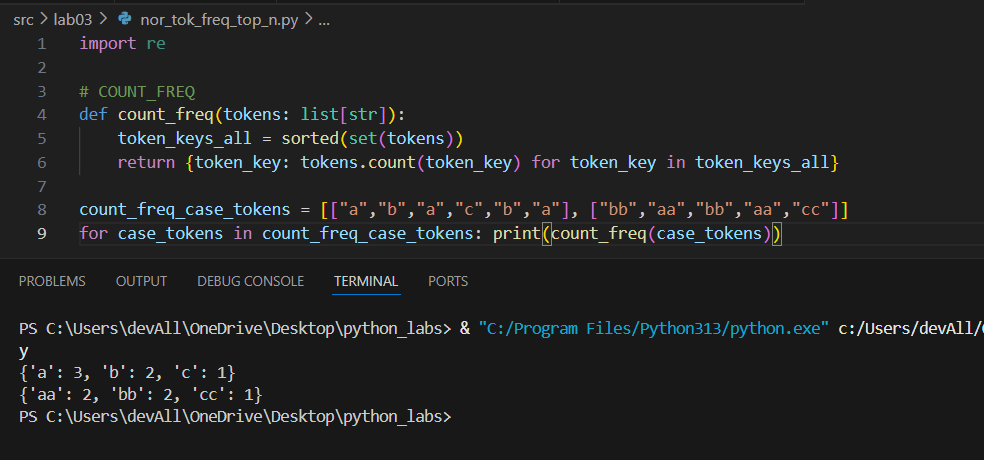
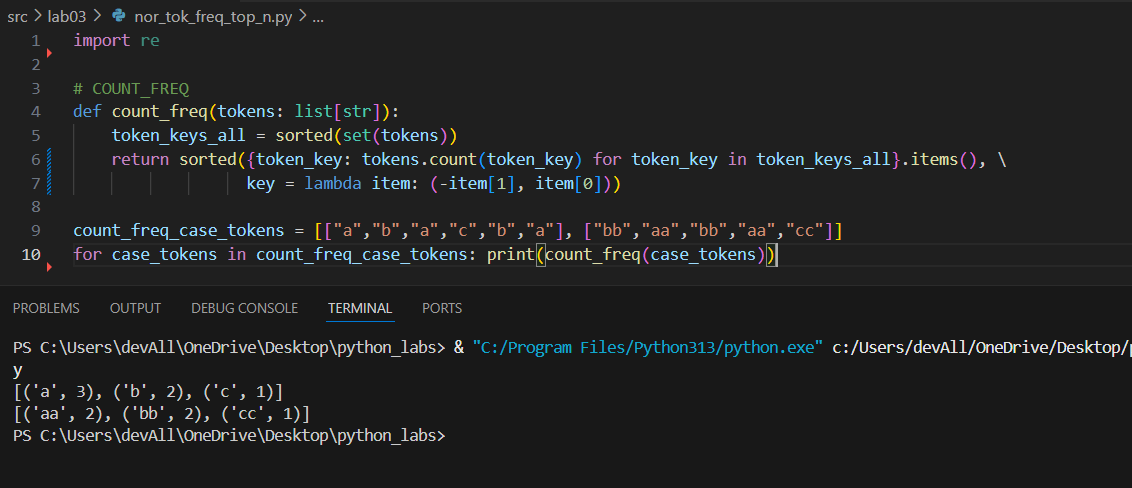
Commit 4.1

diff --git a/src/lab03/nor_tok_freq_top_n.py b/src/lab03/nor_tok_freq_top_n.py
@@ -22,14 +22,15 @@ print('-' * 20)
 # COUNT_FREQ
 def count_freq(tokens: list[str]):
     token_keys_all = sorted(set(tokens))
-    return {token_key: tokens.count(token_key) for token_key in token_keys_all}
+    return sorted({token_key: tokens.count(token_key) for token_key in token_keys_all}.items(), \
+                  key = lambda item: (-item[1], item[0]))
 
 count_freq_case_tokens = [["a","b","a","c","b","a"], ["bb","aa","bb","aa","cc"]]
 for case_tokens in count_freq_case_tokens: print(count_freq(case_tokens))
 print('-' * 20)
 
 # TOP_N
-def top_n(freq: dict[str, int], n: int = 5): return sorted(freq.items())[:n]
+def top_n(freq: dict[str, int], n: int = 5): return sorted(freq.items(), key = lambda item: (-item[1], item[0]))[:n]
 
 top_n_case_freq = [{"b":2,"a":3,"c":1},{"bb":2,"cc":1,"aa":2}]
 for case_freq in top_n_case_freq: print(top_n(case_freq))

diff --git a/src/lab03/text_freq.py b/src/lab03/text_freq.py
@@ -8,7 +8,7 @@ def text_analuzator(text):
     text_normalize = text_token.normalize(text)
     text_tokens = text_token.tokenize(text_normalize)
     text_freq = text_token.count_freq(text_tokens)
-    text_top = text_token.top_n(text_freq)
+    text_top = text_token.top_n(dict(text_freq))
 
     count_words_all = len(text_tokens)
     count_words_uniq = len(text_freq)
@@ -16,7 +16,8 @@ def text_analuzator(text):
     print('Всего слов:', count_words_all)
     print('Уникальных слов:', count_words_uniq)
     print('Топ-5:')
-    print(text_top)
-    for word_top_5 in text_top: print(word_top_5)
+    for word_top_5 in text_top: print(f'{word_top_5[0]}: {word_top_5[1]}')
+
+
 text = str(input())
-print(text_analuzator(text))
+text_analuzator(text)

diff --git a/src/lib/text_token.py b/src/lib/text_token.py
@@ -11,6 +11,6 @@ def tokenize(text: str): return re.findall( r'\w+(?:-\w+)*', text)
 
 def count_freq(tokens: list[str]):
     token_keys_all = sorted(set(tokens))
-    return {token_key: tokens.count(token_key) for token_key in token_keys_all}
+    return sorted({token_key: tokens.count(token_key) for token_key in token_keys_all}.items(), key = lambda item: (-item[1], item[0]))
 
-def top_n(freq: dict[str, int], n: int = 5): return sorted(freq.items())[:n]
+def top_n(freq: dict[str, int], n: int = 5): return sorted(freq.items(), key = lambda item: (-item[1], item[0]))[:n]

diff --git a/src/lib/count_freq.py b/src/lib/count_freq.py
@@ -1,3 +1,3 @@
 def count_freq(tokens: list[str]):
     token_keys_all = sorted(set(tokens))
-    return {token_key: tokens.count(token_key) for token_key in token_keys_all}
+    return sorted({token_key: tokens.count(token_key) for token_key in token_keys_all}.items(), key = lambda item: (-item[1], item[0]))

diff --git a/src/lib/top_n.py b/src/lib/top_n.py
@@ -1,1 +1,1 @@
-def top_n(freq: dict[str, int], n: int = 5): return sorted(freq.items())[:n]
+def top_n(freq: dict[str, int], n: int = 5): return sorted(freq.items(), key = lambda item: (-item[1], item[0]))[:n]

diff --git a/src/lab03/README.md b/src/lab03/README.md
@@ -1,0 +1,13 @@
+Господин из Сан-Франциско — имени его ни в Неаполе, ни на Капри никто не запомнил — ехал в Старый Свет на целых два года, с женой и дочерью, единственно ради развлечения.
+Он был твердо уверен, что имеет полное право на отдых, на удовольствия, на путешествие во всех отношениях отличное. Для такой уверенности у него был тот довод, что, во-первых, он был богат, а во-вторых, только что приступал к жизни, несмотря на свои пятьдесят восемь лет. До этой поры он не жил, а лишь существовал, правда, очень недурно, но все же возлагая все надежды на будущее. Он работал не покладая рук, — китайцы, которых он выписывал к себе на работы целыми тысячами, хорошо знали, что это значит! — и наконец увидел, что сделано уже много, что он почти сравнялся с теми, кого некогда взял себе за образец, и решил передохнуть. Люди, к которым принадлежал он, имели обычай начинать наслаждение жизнью с поездки в Европу, в Индию, в Египет. Положил и он поступить так же. Конечно, он хотел вознаградить за годы труда прежде всего себя; однако рад был и за жену с дочерью. Жена его никогда не отличалась особой впечатлительностью, но ведь все пожилые американки страстные путешественницы. А что до дочери, девушки на возрасте и слегка болезненной, то для нее путешествие было прямо необходимо: не говоря уже о пользе для здоровья, разве не бывает в путешествиях счастливых встреч? Тут иной раз сидишь за столом и рассматриваешь фрески рядом с миллиардером.
+Маршрут был выработан господином из Сан-Франциско обширный. В декабре и январе он надеялся наслаждаться солнцем Южной Италии, памятниками древности, тарантеллой, серенадами бродячих певцов и тем, что люди в его годы чувствуют особенно тонко, — любовью молоденьких неаполитанок, пусть даже и не совсем бескорыстной; карнавал он думал провести в Ницце, в Монте-Карло, куда в эту пору стекается самое отборное общество, где одни с азартом предаются автомобильным и парусным гонкам, другие рулетке, третьи тому, что принято называть флиртом, а четвертые — стрельбе в голубей, которые очень красиво взвиваются из садков над изумрудным газоном, на фоне моря цвета незабудок, и тотчас же стукаются белыми комочками о землю; начало марта он хотел посвятить Флоренции, к страстям господним приехать в Рим, чтобы слушать там Miserere; 1 входили в его планы и Венеция, и Париж, и бой быков в Севилье, и купанье на английских островах, и Афины, и Константинополь, и Палестина, и Египет, и даже Япония, — разумеется, уже на обратном пути... И все пошло сперва прекрасно.
+Был конец ноября, до самого Гибралтара пришлось плыть то в ледяной мгле, то среди бури с мокрым снегом; но плыли вполне благополучно. Пассажиров было много, пароход — знаменитая «Атлантида» — был похож на громадный отель со всеми удобствами, — с ночным баром, с восточными банями, с собственной газетой, — и жизнь на нем протекала весьма размеренно: вставали рано, при трубных звуках, резко раздававшихся по коридорам еще в тот сумрачный час, когда так медленно и неприветливо светало над серо-зеленой водяной пустыней, тяжело волновавшейся в тумане; накинув фланелевые пижамы, пили кофе, шоколад, какао; затем садились в ванны, делали гимнастику, возбуждая аппетит и хорошее самочувствие, совершали дневные туалеты и шли к первому завтраку; до одиннадцати часов полагалось бодро гулять по палубам, дыша холодной свежестью океана, или играть в шеффльборд и другие игры для нового возбуждения аппетита, а в одиннадцать — подкрепляться бутербродами с бульоном; подкрепившись, с удовольствием читали газету и спокойно ждали второго завтрака, еще более питательного и разнообразного, чем первый; следующие два часа посвящались отдыху; все палубы были заставлены тогда длинными камышовыми креслами, на которых путешественники лежали, укрывшись пледами, глядя на облачное небо и на пенистые бугры, мелькавшие за бортом, или сладко задремывая; в пятом часу их, освеженных и повеселевших, поили крепким душистым чаем с печеньями; в семь повещали трубными сигналами о том, что составляло главнейшую цель всего этого существования, венец его... И тут господин из Сан-Франциско спешил в свою богатую кабину — одеваться.
+По вечерам этажи «Атлантиды» зияли во мраке огненными несметными глазами, и великое множество слуг работало в поварских, судомойнях и винных подвалах. Океан, ходивший за стенами, был страшен, но о нем не думали, твердо веря во власть над ним командира, рыжего человека чудовищной величины и грузности, всегда как бы сонного, похожего в своем мундире с широкими золотыми нашивками на огромного идола и очень редко появлявшегося на люди из своих таинственных покоев; на баке поминутно взвывала с адской мрачностью и взвизгивала с неистовой злобой, сирена, но немногие из обедающих слышали сирену — ее заглушали звуки прекрасного струнного оркестра, изысканно и неустанно игравшего в двухсветной зале, празднично залитой огнями, переполненной декольтированными дамами и мужчинами во фраках и смокингах, стройными лакеями и почтительными метрдотелями, среди которых один, тот, что принимал заказы только на вина, ходил даже с цепью на шее, как лорд-мэр. Смокинг и крахмальное белье очень молодили господина из Сан-Франциско. Сухой, невысокий, неладно скроенный, но крепко сшитый, он сидел в золотисто-жемчужном сиянии этого чертога за бутылкой вина, за бокалами и бокальчиками тончайшего стекла, за кудрявым букетом гиацинтов. Нечто монгольское было в его желтоватом лице с подстриженными серебряными усами, золотыми пломбами блестели его крупные зубы, старой слоновой костью — крепкая лысая голова. Богато, но по годам была одета его жена, женщина крупная, широкая и спокойная; сложно, но легко и прозрачно, с невинной откровенностью — дочь, высокая, тонкая, с великолепными волосами, прелестно убранными, с ароматическим от фиалковых лепешечек дыханием и с нежнейшими розовыми прыщиками возле губ и между лопаток, чуть припудренных... Обед длился больше часа, а после обеда открывались в бальной зале танцы, во время которых мужчины, — в том числе, конечно, и господин из Сан-Франциско, — задрав ноги, до малиновой красноты лиц накуривались гаванскими сигарами и напивались ликерами в баре, где служили негры в красных камзолах, с белками, похожими на облупленные крутые яйца. Океан с гулом ходил за стеной черными горами, вьюга крепко свистала в отяжелевших снастях, пароход весь дрожал, одолевая и ее, и эти горы, — точно плугом разваливая на стороны их зыбкие, то и дело вскипавшие и высоко взвивавшиеся пенистыми хвостами громады, — в смертной тоске стенала удушаемая туманом сирена, мерзли от стужи и шалели от непосильного напряжения внимания вахтенные на своей вышке, мрачным и знойным недрам преисподней, ее последнему, девятому кругу была подобна подводная утроба парохода, — та, где глухо гоготали исполинские топки, пожиравшие своими раскаленными зевами груды каменного угля, с грохотом ввергаемого в них облитыми едким, грязным потом и по пояс голыми людьми, багровыми от пламени; а тут, в баре, беззаботно закидывали ноги на ручки кресел, цедили коньяк и ликеры, плавали в волнах пряного дыма, в танцевальной зале все сияло и изливало свет, тепло и радость, пары то крутились в вальсах, то изгибались в танго — и музыка настойчиво, в сладостно-бесстыдной печали молила все об одном, все о том же... Был среди этой блестящей толпы некий великий богач, бритый, длинный, в старомодном фраке, был знаменитый испанский писатель, была всесветная красавица, была изящная влюбленная пара, за которой все с любопытством следили и которая не скрывала своего счастья: он танцевал только с ней, и все выходило у них так тонко, очаровательно, что только один командир знал, что эта пара нанята Ллойдом играть в любовь за хорошие деньги и уже давно плавает то на одном, то на другом корабле.
+В Гибралтаре всех обрадовало солнце, было похоже на раннюю весну; на борту «Атлантиды» появился новый пассажир, возбудивший к себе общий интерес, — наследный принц одного азиатского государства, путешествующий инкогнито, человек маленький, весь деревянный, широколицый, узкоглазый, в золотых очках, слегка неприятный — тем, что крупные усы сквозили у него как у мертвого, в общем же милый, простой и скромный. В Средиземном море шла крупная и цветистая, как хвост павлина, волна, которую, при ярком блеске и совершенно чистом небе, развела весело и бешено летевшая навстречу трамонтана... Потом, на вторые сутки, небо стало бледнеть, горизонт затуманился: близилась земля, показались Иския, Капри, в бинокль уже виден был кусками сахара насыпанный у подножия чего-то сизого Неаполь... Многие леди и джентльмены уже надели легкие, мехом вверх шубки; безответные, всегда шепотом говорящие бои-китайцы, кривоногие подростки со смоляными косами до пят и с девичьими густыми ресницами, исподволь вытаскивали к лестницам пледы, трости, чемоданы, несессеры... Дочь господина из Сан-Франциско стояла на палубе рядом с принцем, вчера вечером, по счастливой случайности, представленным ей, и делала вид, что пристально смотрит вдаль, куда он указывал ей, что-то объясняя, что-то торопливо и негромко рассказывая; он по росту казался среди других мальчиком, он был совсем не хорош собой и странен, — очки, котелок, английское пальто, а волосы редких усов точно конские, смуглая тонкая кожа на плоском лице точно натянута и как будто слегка лакирована, — но девушка слушала его и от волнения не понимала, что он ей говорит; сердце ее билось от непонятного восторга перед ним: все, все в нем было не такое, как у прочих, — его сухие руки, его чистая кожа, под которой текла древняя царская кровь; даже его европейская, совсем простая, но как будто особенно опрятная одежда таили в себе неизъяснимое очарование. А сам господин из Сан-Франциско, в серых гетрах на ботинках, все поглядывал на стоявшую возле него знаменитую красавицу, высокую, удивительного сложения блондинку с разрисованными по последней парижской моде глазами, державшую на серебряной цепочке крохотную, гнутую, облезлую собачку и все разговаривавшую с нею. И дочь, в какой-то смутной неловкости, старалась не замечать его.
+Он был довольно щедр в пути и потому вполне верил в заботливость всех тех, что кормили и поили его, с утра до вечера служили ему, предупреждая его малейшее желание, охраняли его чистоту и покой, таскали его вещи, звали для него носильщиков, доставляли его сундуки в гостиницы. Так было всюду, так было в плавании, так должно было быть и в Неаполе. Неаполь рос и приближался; музыканты, блестя медью духовых инструментов, уже столпились на палубе и вдруг оглушили всех торжествующими звуками марша, гигант-командир, в парадной форме, появился на своих мостках и, как милостивый языческий бог, приветственно помотал рукой пассажирам. А когда «Атлантида» вошла наконец в гавань, привалила к набережной своей многоэтажной громадой, усеянной людьми, и загрохотали сходни, — сколько портье и их помощников в картузах с золотыми галунами, сколько всяких комиссионеров, свистунов мальчишек и здоровенных оборванцев с пачками цветных открыток в руках кинулось к нему навстречу с предложением услуг! И он ухмылялся этим оборванцам, идя к автомобилю того самого отеля, где мог остановиться и принц, и спокойно говорил сквозь зубы то по-английски, то по-итальянски:
+— Go away! 2 Via! 3
+Жизнь в Неаполе тотчас же потекла по заведенному порядку: рано утром — завтрак в сумрачной столовой, облачное, мало обещающее небо и толпа гидов у дверей вестибюля; потом первые улыбки теплого розоватого солнца, вид с высоко висящего балкона на Везувий, до подножия окутанный сияющими утренними парами, на серебристо-жемчужную рябь залива и тонкий очерк Капри на горизонте, на бегущих внизу, по набережной, крохотных осликов в двуколках и на отряды мелких солдатиков, шагающих куда-то с бодрой и вызывающей музыкой; потом — выход к автомобилю и медленное движение по людным узким и сырым коридорам улиц, среди высоких, многооконных домов, осмотр мертвенно-чистых и ровно, приятно, но скучно, точно снегом, освещенных музеев или холодных, пахнущих воском церквей, в которых повсюду одно и то же: величавый вход, закрытый тяжкой кожаной завесой, а внутри — огромная пустота, молчание, тихие огоньки семисвечника, краснеющие в глубине на престоле, убранном кружевами, одинокая старуха среди темных деревянных парт, скользкие гробовые плиты под ногами и чье-нибудь «Снятие со креста», непременно знаменитое; в час — второй завтрак на горе Сан-Мартино, куда съезжается к полудню немало людей самого первого сорта и где однажды дочери господина из Сан-Франциско чуть не сделалось дурно: ей показалось, что в зале сидит принц, хотя она уже знала из газет, что он в Риме; в пять — чай в отеле, в нарядном салоне, где так тепло от ковров и пылающих каминов; а там снова приготовления к обеду — снова мощный, властный гул гонга по всем этажам, снова вереницы, шуршащих по лестницам шелками и отражающихся в зеркалах декольтированных дам, Снова широко и гостеприимно открытый чертог столовой, и красные куртки музыкантов на эстраде, и черная толпа лакеев возле метрдотеля, с необыкновенным мастерством разливающего по тарелкам густой розовый суп... Обеды опять были так обильны и кушаньями, и винами, и минеральными водами, и сластями, и фруктами, что к одиннадцати часам вечера по всем номерам разносили горничные каучуковые пузыри с горячей водой для согревания желудков.
+Однако декабрь «выдался» не совсем удачный: портье, когда с ними говорили о погоде, только виновато поднимали плечи, бормоча, что такого года они и не запомнят, хотя уже не первый год приходилось им бормотать это и ссылаться на то, что всюду происходит что-то ужасное: на Ривьере небывалые ливни и бури, в Афинах снег, Этна тоже вся занесена и по ночам светит, из Палермо туристы, спасаясь от стужи, разбегаются... Утреннее солнце каждый день обманывало: с полудня неизменно серело и начинал сеять дождь да все гуще и холоднее; тогда пальмы у подъезда отеля блестели жестью, город казался особенно грязным и тесным, музеи чересчур однообразными, сигарные окурки толстяков-извозчиков в резиновых, крыльями развевающихся по ветру накидках — нестерпимо вонючими, энергичное хлопанье их бичей над тонкошеими клячами явно фальшивым, обувь синьоров, разметающих трамвайные рельсы, ужасною, а женщины, шлепающие по грязи, под дождем с черными раскрытыми головами, — безобразно коротконогими; про сырость же и вонь гнилой рыбой от пенящегося у набережной моря и говорить нечего. Господин и госпожа из Сан-Франциско стали по утрам ссориться; дочь их то ходила бледная, с головной болью, то оживала, всем восхищалась и была тогда и мила, и прекрасна: прекрасны были те нежные, сложные чувства, что пробудила в ней встреча с некрасивым человеком, в котором текла необычная кровь, ибо ведь, в конце концов, и не важно, что именно пробуждает девичью душу, — деньги ли, слава ли, знатность ли рода... Все уверяли, что совсем не то в Сорренто, на Капри — там и теплей, и солнечней, и лимоны цветут, и нравы честнее, и вино натуральней. И вот семья из Сан-Франциско решила отправиться со всеми своими сундуками на Капри, с тем, чтобы, осмотрев его, походив по камням на месте дворцов Тиверия, побывав в сказочных пещерах Лазурного Грота и послушав абруццких волынщиков, целый месяц бродящих перед Рождеством по острову и поющих хвалы деве Марии, поселиться в Сорренто.
+В день отъезда, — очень памятный для семьи из Сан-Франциско! — даже и с утра не было солнца. Тяжелый туман до самого основания скрывал Везувий, низко серел над свинцовой зыбью моря. Острова Капри совсем не было видно — точно его никогда и не существовало на свете. И маленький пароходик, направившийся к нему, так валяло со стороны на сторону, что семья из Сан-Франциско пластом лежала на диванах в жалкой кают-компании этого пароходика, закутав ноги пледами и закрыв от дурноты глаза. Миссис страдала, как она думала, больше всех: ее несколько раз одолевало, ей казалось, что она умирает, а горничная, прибегавшая к ней с тазиком, — уже многие годы изо дня в день качавшаяся на этих волнах и в зной и в стужу и все-таки неутомимая, — только смеялась. Мисс была ужасно бледна и держала в зубах ломтик лимона. Мистер, лежавший на спине, в широком пальто и большом картузе, не разжимал челюстей всю дорогу; лицо его стало темным, усы белыми, голова тяжко болела: последние дни, благодаря дурной погоде, он пил по вечерам слишком много и слишком много любовался «живыми картинами» в некоторых притонах. А дождь сек в дребезжащие стекла, на диваны с них текло, ветер с воем ломил в мачты и порою, вместе с налетавшей волной, клал пароходик совсем набок, и тогда с грохотом катилось что-то внизу. На остановках, в Кастелламаре, в Сорренто, было немного легче; но и тут размахивало страшно, берег со всеми своими обрывами, садами, пиниями, розовыми и белыми отелями, и дымными, курчаво-зелеными горами летал за окном вниз и вверх, как на качелях; в стены стукались лодки, сырой ветер дул в двери, и, ни на минуту не смолкая, пронзительно вопил с качавшейся барки под флагом гостиницы «Royal» картавый мальчишка, заманивавший путешественников. И господин из Сан-Франциско, чувствуя себя так, как и подобало ему, — совсем стариком, — уже с тоской и злобой думал обо всех этих жадных, воняющих чесноком людишках, называемых итальянцами; раз во время остановки, открыв глаза и приподнявшись с дивана, он увидел под скалистым отвесом кучу таких жалких, насквозь проплесневевших каменных домишек, налепленных друг на друга у самой воды, возле лодок, возле каких-то тряпок, жестянок и коричневых сетей, что, вспомнив, что это и есть подлинная Италия, которой он приехал наслаждаться, почувствовал отчаяние... Наконец, уже в сумерках, стал надвигаться своей чернотой остров, точно насквозь просверленный у подножья красными огоньками, ветер стал мягче, теплей, благовонней, по смиряющимся волнам, переливавшимся, как черное масло, потекли золотые удавы от фонарей пристани... Потом вдруг загремел и шлепнулся в воду якорь, наперебой понеслись отовсюду яростные крики лодочников — и сразу стало на душе легче, ярче засияла кают-компания, захотелось есть, пить, курить, двигаться... Через десять минут семья из Сан-Франциско сошла в большую барку, через пятнадцать ступила на камни набережной, а затем села в светлый вагончик и с жужжанием потянулась вверх по откосу, среди кольев на виноградниках, полуразвалившихся каменных оград и мокрых, корявых, прикрытых кое-где соломенными навесами апельсинных деревьев, с блеском оранжевых плодов и толстой глянцевитой листвы скользивших вниз, под гору, мимо открытых окон вагончика... Сладко пахнет в Италии земля после дождя, и свой, особый запах есть у каждого ее острова!
+Остров Капри был сыр и темен в этот вечер. Но тут он на минуту ожил, кое-где осветился. На верху горы, на площадке фюникулера, уже опять стояла толпа тех, на обязанности которых лежало достойно принять господина из Сан-Франциско. Были и другие приезжие, но не заслуживающие внимания, — несколько русских, поселившихся на Капри, неряшливых и рассеянных, в очках, с бородами, с поднятыми воротниками стареньких пальтишек, и компания длинноногих, круглоголовых немецких юношей в тирольских костюмах и с холщовыми сумками за плечами, не нуждающихся ни в чьих услугах и совсем не щедрых на траты. Господин из Сан-Франциско, спокойно сторонившийся и от тех, и от других, был сразу замечен. Ему и его дамам торопливо помогли выйти, перед ним побежали вперед, указывая дорогу, его снова окружили мальчишки и те дюжие каприйские бабы, что носят на головах чемоданы и сундуки порядочных туристов. Застучали по маленькой, точно оперной площади, над которой качался от влажного ветра электрический шар, их деревянные ножные скамеечки, по-птичьему засвистала и закувыркалась через голову орава мальчишек — и как по сцене пошел среди них господин из Сан-Франциско к какой-то средневековой арке под слитыми в одно домами, за которой покато вела к сияющему впереди подъезду отеля звонкая уличка с вихром пальмы над плоскими крышами налево и синими звездами на черном небе вверху, впереди. И все было похоже на то, что это в честь гостей из Сан-Франциско ожил каменный сырой городок на скалистом островке в Средиземном море, что это они сделали таким счастливым и радушным хозяина отеля, что только их ждал китайский гонг, завывавший по всем этажам сбор к обеду, едва вступили они в вестибюль.
+Вежливо и изысканно поклонившийся хозяин, отменно элегантный молодой человек, встретивший их, на мгновение поразил господина из Сан-Франциско: он вдруг вспомнил, что нынче ночью, среди прочей путаницы, осаждавшей его во сне, он видел именно этого джентльмена, точь-в-точь такого же, как этот, в той же визитке и с той же зеркально причесанной головою. Удивленный, он даже чуть было не приостановился. Но как в душе его уже давным-давно не осталось ни даже горчичного семени каких-либо так называемых мистических чувств, то сейчас же и померкло его удивление: шутя сказал он об этом странном совпадении сна и действительности жене и дочери, проходя по коридору отеля. Дочь, однако, с тревогой взглянула на него в эту минуту: сердце ее вдруг сжала тоска, чувство страшного одиночества на этом чужом, темном острове...
